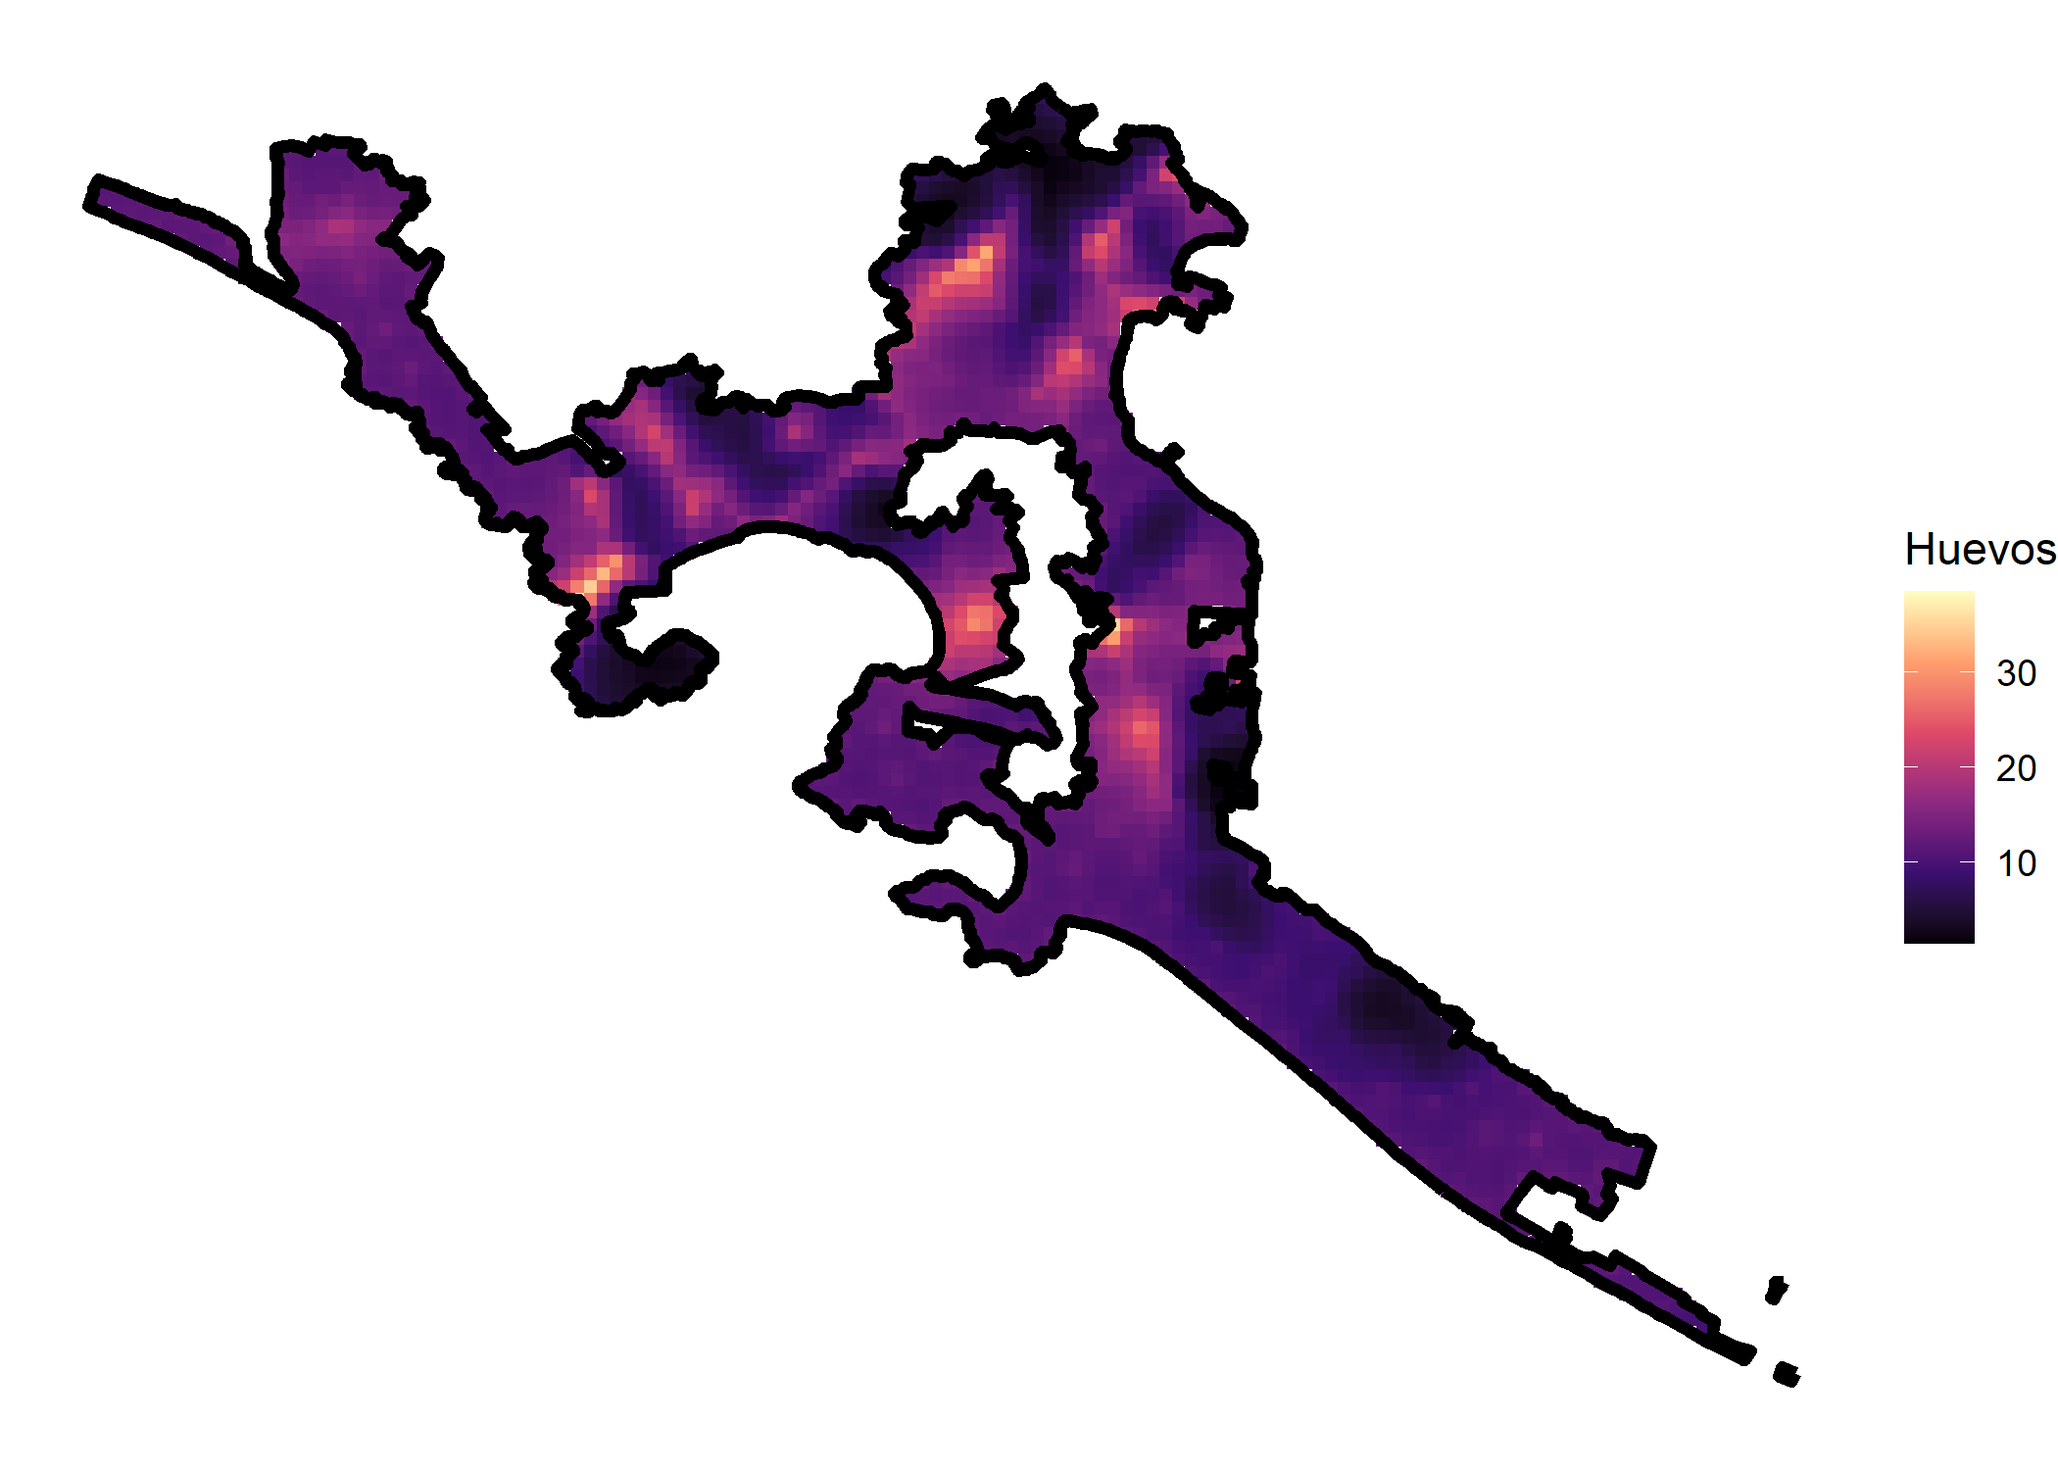
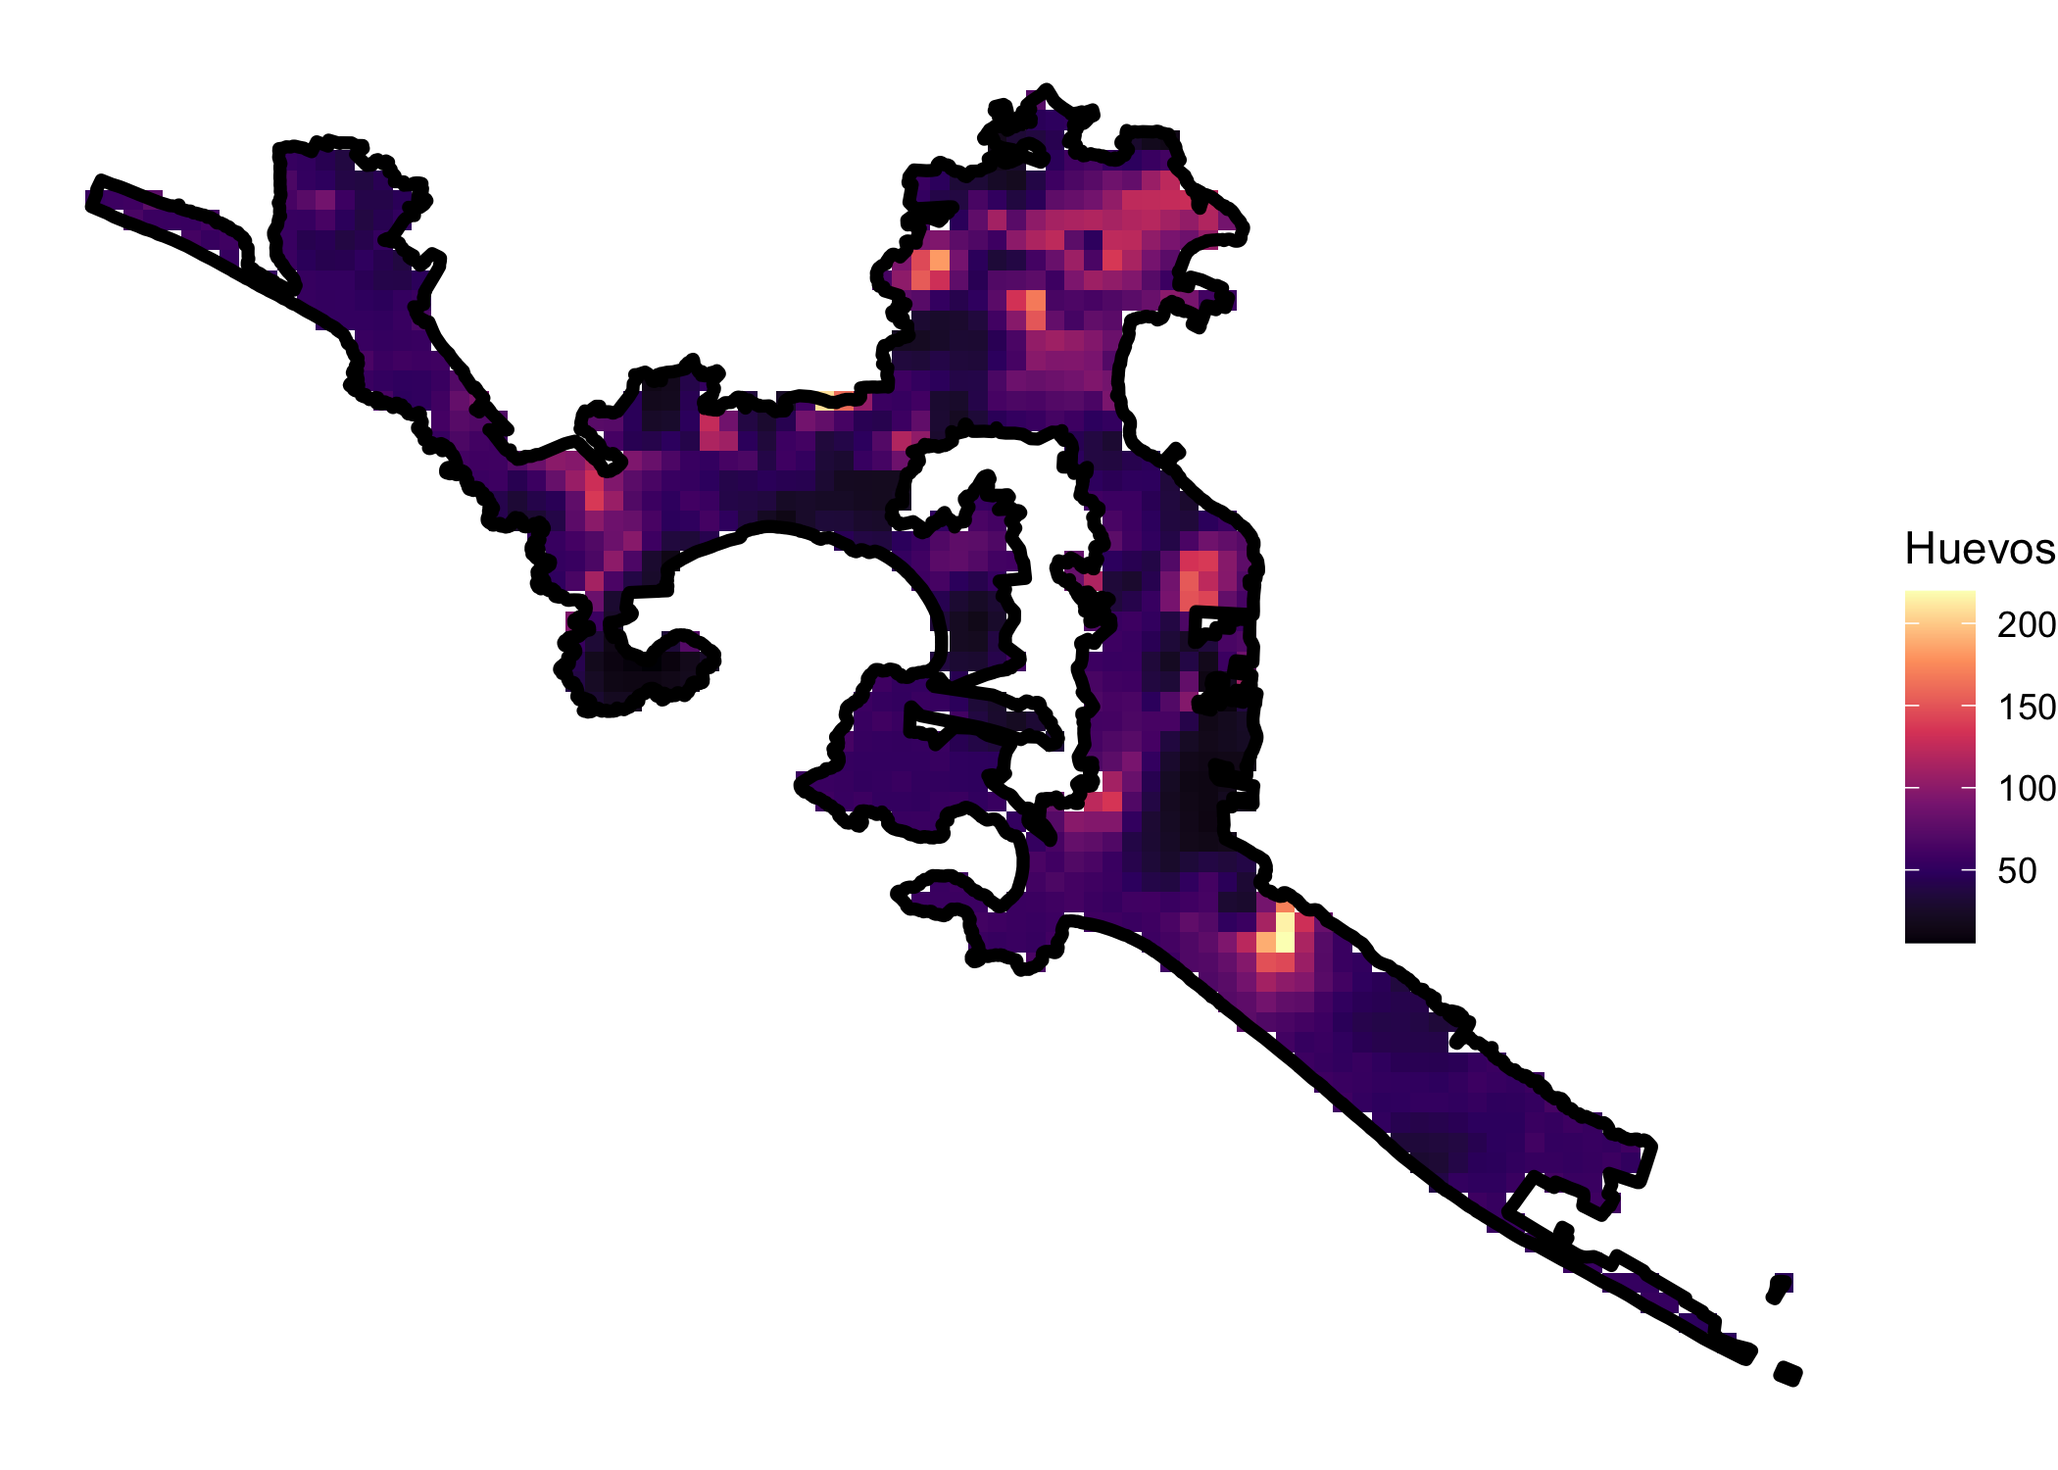
This commit update the deneggs pkg

diff --git a/README.md b/README.md
@@ -1,0 +1,306 @@
+
+<!-- README.md is generated from README.Rmd. Please edit that file -->
+
+# **deneggs**
+
+[![Build
+Status](https://travis-ci.org/pages-themes/cayman.svg?branch=master)](https://travis-ci.org/pages-themes/cayman)
+[![Gem
+Version](https://badge.fury.io/rb/jekyll-theme-cayman.svg)](https://badge.fury.io/rb/jekyll-theme-cayman)[![Github
+All
+Releases](https://img.shields.io/github/downloads/fdzul/deneggs/total.svg)]()
+
+**deneggs is a package developed in the department of prevention and
+control of diseases transmitted by vector of the [Secretary of Health of
+Veracruz](https://www.ssaver.gob.mx/) and with colaboration of the
+[CENAPRECE](https://www.gob.mx/salud/cenaprece)**
+
+## **overview**
+
+**deneggs** is a package to generate predictive maps of the number of
+eggs or adults in areas where it is not collected.The predictive maps
+are generated using geostatistical analysis in the
+[INLA](http://www.r-inla.org/) framework.
+
+- **`deneggs::spde_pred_map()`** generate the predictive mapand
+  calculate the hotspots. Run the models with six distributions.
+- **`deneggs::eggs_hotspots()`** generate the predictive map and
+  calculate the hotspots. Run the model with one distribution.
+- **`deneggs::animap_vector_hotblocks()`** generate the animated map of
+  hotblocks of eggs abundance.
+- **`deneggs::ovitraps_read()`** reads current ovitramp databases and
+  historical.
+- **`deneggs::eggs_map()`** generates an entomological risk map or an
+  egg density map.
+- **`deneggs::loc_grid_points()`** It is a complementary function that
+  helps in the creation of grid of the locality in the prediction stack
+  in [INLA](http://www.r-inla.org/).
+- **`mesh()`** It is a complementary function that helps in the creation
+  of mesh.
+
+## Instalation
+
+``` r
+# The easiest way to get deneggs is to install:
+install.packages("deneggs")
+```
+
+### Development version
+
+To get a bug fix, or use a feature from the development version, you can
+install deneggs from GitHub.
+
+mac
+
+``` r
+# install.packages("devtools")
+devtools::install_github("fdzul/deneggs")
+```
+
+linux fedora
+
+``` r
+# install.packages("devtools")
+remotes::install_github("fdzul/deneggs")
+```
+
+### **`deneggs::spde_pred_map()`** return a list with six object:
+
+- **`data`** is the original dataset of the ovitrap.
+- **`pred`** is the predicction dataset of *the Ae. aegypti* eggs.
+- **`dics`** is a dataframe with the dics of six distribution (poisson,
+  zeroinflatedpoisson0, 1, zeroinflatedpoisson1, nbinomial, nbinomial2,
+  zeroinflatednbinomial0, zeroinflatednbinomial1).
+- **`hotspots`** a dataset with the eggs prediction and the hotspots
+  eggs.
+- **`loc`** is the loclaity limit.
+- **`map`** is the map prediction.
+
+``` r
+# Step 1. define the paths 
+library(sf)
+path_lect <- "/Users/fdzul/Library/CloudStorage/OneDrive-Personal/datasets/CENAPRECE/2023/12_guerrero/"
+path_coord <- paste(path_lect,"DescargaOvitrampasMesFco.txt", sep = "/")
+
+# Step 2. make the prediction
+acapulco <- deneggs::spde_pred_map(path_lect = path_lect,
+                                   cve_ent = "12",
+                                   locality  = c("Acapulco de Juárez"),
+                                   path_coord =  path_coord,
+                                   longitude  = "Pocision_X",
+                                   latitude =  "Pocision_Y",
+                                   aproximation = "gaussian",
+                                   integration = "eb",
+                                   k = 20,
+                                   palette_vir  = "magma",
+                                   leg_title = "Huevos",
+                                   week = 30,
+                                   plot = TRUE,
+                                   var = "Huevecillos",
+                                   cell_size = 1000,
+                                   alpha = .99)
+```
+
+<img src="man/figures/README-spde_acapulco-1.png" width="100%" style="display: block; margin: auto;" />
+
+``` r
+
+
+knitr::kable(head(acapulco$data), "simple")
+```
+
+| Clave.x           | Entidad.x   | Jurisdiccion  | Municipio.x        | Localidad.x        | Sector | Manzana |   Ovitrampa | Huevecillos | No.Lectura | Fecha.Lectura | Fecha.Recoleccion.Papeleta | Semana.Epidemiologica | Usuario  | Fecha.Captura | RFC.del.Operador | CAMEX | Clave.y           | Entidad.y   | Municipio.y            | Localidad.y             | Pocision_X | Pocision_Y | FechaGeo   |
+|:------------------|:------------|:--------------|:-------------------|:-------------------|-------:|--------:|------------:|------------:|:-----------|:--------------|:---------------------------|----------------------:|:---------|:--------------|:-----------------|:------|:------------------|:------------|:-----------------------|:------------------------|-----------:|-----------:|:-----------|
+| 12001000103040099 | 12 Guerrero | 1207 ACAPULCO | Acapulco de Juárez | Acapulco De Juárez |    304 |      99 | 12001023350 |          32 | 26         | 28/07/2023    | 28/07/2023                 |                    30 | c1207:26 | 31/07/2023    | MEGD970929KC8    | SI    | 12001000103040099 | 12 Guerrero | 001 Acapulco de Juárez | 0001 ACAPULCO DE JUÁREZ |  -99.83735 |   16.82435 | 08/04/2019 |
+| 12001000101460085 | 12 Guerrero | 1207 ACAPULCO | Acapulco de Juárez | Acapulco De Juárez |    146 |      85 | 12001023363 |         307 | 23         | 24/07/2023    | 24/07/2023                 |                    30 | c1207:28 | 25/07/2023    | AACO650905N6A    | SI    | 12001000101460085 | 12 Guerrero | 001 Acapulco de Juárez | 0001 ACAPULCO DE JUÁREZ |  -99.84645 |   16.90038 | 09/04/2019 |
+| 12001000101460085 | 12 Guerrero | 1207 ACAPULCO | Acapulco de Juárez | Acapulco De Juárez |    146 |      85 | 12001023364 |          68 | 23         | 24/07/2023    | 24/07/2023                 |                    30 | c1207:28 | 25/07/2023    | AACO650905N6A    | SI    | 12001000101460085 | 12 Guerrero | 001 Acapulco de Juárez | 0001 ACAPULCO DE JUÁREZ |  -99.84624 |   16.90018 | 09/04/2019 |
+| 12001000101460085 | 12 Guerrero | 1207 ACAPULCO | Acapulco de Juárez | Acapulco De Juárez |    146 |      85 | 12001023365 |           8 | 23         | 24/07/2023    | 24/07/2023                 |                    30 | c1207:28 | 25/07/2023    | AACO650905N6A    | SI    | 12001000101460085 | 12 Guerrero | 001 Acapulco de Juárez | 0001 ACAPULCO DE JUÁREZ |  -99.84569 |   16.90015 | 09/04/2019 |
+| 12001000101460085 | 12 Guerrero | 1207 ACAPULCO | Acapulco de Juárez | Acapulco De Juárez |    146 |      85 | 12001023366 |          67 | 23         | 24/07/2023    | 24/07/2023                 |                    30 | c1207:28 | 25/07/2023    | AACO650905N6A    | SI    | 12001000101460085 | 12 Guerrero | 001 Acapulco de Juárez | 0001 ACAPULCO DE JUÁREZ |  -99.84553 |   16.90026 | 09/04/2019 |
+| 12001000101460087 | 12 Guerrero | 1207 ACAPULCO | Acapulco de Juárez | Acapulco De Juárez |    146 |      87 | 12001023367 |           9 | 23         | 24/07/2023    | 24/07/2023                 |                    30 | c1207:28 | 25/07/2023    | AACO650905N6A    | SI    | 12001000101460087 | 12 Guerrero | 001 Acapulco de Juárez | 0001 ACAPULCO DE JUÁREZ |  -99.84566 |   16.90116 | 09/04/2019 |
+
+``` r
+knitr::kable(head(acapulco$pred), "simple")
+```
+
+|         x |        y | pred_mean |   pred_sd |  pred_ll |  pred_ul | ws_mean | ws_sd | week | fam                    |     dic |
+|----------:|---------:|----------:|----------:|---------:|---------:|--------:|------:|-----:|:-----------------------|--------:|
+| -99.69653 | 16.71294 |  46.93143 |  8.926602 | 31.85718 | 31.85718 |      NA |    NA |   30 | zeroinflatednbinomial1 | 52503.9 |
+| -99.70695 | 16.71641 |  47.58182 | 12.139977 | 28.17665 | 28.17665 |      NA |    NA |   30 | zeroinflatednbinomial1 | 52503.9 |
+| -99.71389 | 16.71989 |  47.50852 | 11.812690 | 28.52137 | 28.52137 |      NA |    NA |   30 | zeroinflatednbinomial1 | 52503.9 |
+| -99.72084 | 16.72336 |  61.39220 | 53.967423 | 10.45366 | 10.45366 |      NA |    NA |   30 | zeroinflatednbinomial1 | 52503.9 |
+| -99.71737 | 16.72336 |  51.73372 | 26.331637 | 17.98862 | 17.98862 |      NA |    NA |   30 | zeroinflatednbinomial1 | 52503.9 |
+| -99.71389 | 16.72336 |  48.46528 | 15.705557 | 24.81079 | 24.81079 |      NA |    NA |   30 | zeroinflatednbinomial1 | 52503.9 |
+
+``` r
+knitr::kable(head(acapulco$dics), "simple")
+```
+
+|       dic | fam                    |
+|----------:|:-----------------------|
+| 101955.80 | poisson                |
+|  89688.48 | zeroinflatedpoisson0   |
+|  89771.94 | zeroinflatedpoisson1   |
+|  52681.89 | nbinomial              |
+|  52799.23 | nbinomial2             |
+|  52546.21 | zeroinflatednbinomial0 |
+
+``` r
+knitr::kable(head(acapulco$hotspots), "simple")
+```
+
+|         x |        y | pred_mean |   pred_sd |  pred_ll |  pred_ul | ws_mean | ws_sd | week | fam                    |     dic | z_score    | hotspots    |
+|----------:|---------:|----------:|----------:|---------:|---------:|--------:|------:|-----:|:-----------------------|--------:|:-----------|:------------|
+| -99.69653 | 16.71294 |  46.93143 |  8.926602 | 31.85718 | 31.85718 |      NA |    NA |   30 | zeroinflatednbinomial1 | 52503.9 | -0.5942301 | No Hotspots |
+| -99.70695 | 16.71641 |  47.58182 | 12.139977 | 28.17665 | 28.17665 |      NA |    NA |   30 | zeroinflatednbinomial1 | 52503.9 | -0.8254357 | No Hotspots |
+| -99.71389 | 16.71989 |  47.50852 | 11.812690 | 28.52137 | 28.52137 |      NA |    NA |   30 | zeroinflatednbinomial1 | 52503.9 | -0.4882049 | No Hotspots |
+| -99.72084 | 16.72336 |  61.39220 | 53.967423 | 10.45366 | 10.45366 |      NA |    NA |   30 | zeroinflatednbinomial1 | 52503.9 | -0.5543260 | No Hotspots |
+| -99.71737 | 16.72336 |  51.73372 | 26.331637 | 17.98862 | 17.98862 |      NA |    NA |   30 | zeroinflatednbinomial1 | 52503.9 | -0.5017920 | No Hotspots |
+| -99.71389 | 16.72336 |  48.46528 | 15.705557 | 24.81079 | 24.81079 |      NA |    NA |   30 | zeroinflatednbinomial1 | 52503.9 | -0.8069366 | No Hotspots |
+
+``` r
+
+# The locality limit of Acapulco
+plot(sf::st_geometry(acapulco$loc))
+```
+
+<img src="man/figures/README-spde_acapulco-2.png" width="100%" style="display: block; margin: auto;" />
+
+``` r
+
+# prediction of the number of Ae. aegypty eggs in the metropolitan area of Acapulco
+acapulco$map
+```
+
+<img src="man/figures/README-spde_acapulco-3.png" width="100%" style="display: block; margin: auto;" />
+
+## Prediction of the number of eggs in the metropolitan area of Monterrey
+
+``` r
+path_lect <- "/Users/fdzul/Library/CloudStorage/OneDrive-Personal/datasets/CENAPRECE/2023/19_nuevo_leon/"
+path_coord <- paste(path_lect,"DescargaOvitrampasMesFco.txt", sep = "/")
+deneggs::eggs_hotspots(path_lect = path_lect,
+                       cve_ent = "19",
+                       locality  = c("Ciudad General Escobedo", "Ciudad Apodaca",
+                                     "Guadalupe", "Monterrey", "Ciudad Santa Catarina",
+                                     "San Pedro Garza García", "Ciudad Benito Juárez",
+                                     "San Nicolás de los Garza", "Montebello"),
+                       path_coord =  path_coord,
+                       longitude  = "Pocision_X",
+                       latitude =  "Pocision_Y",
+                       aproximation = "gaussian",
+                       integration = "eb",
+                       fam = "zeroinflatednbinomial1",
+                       k = 30,
+                       palette_vir  = "magma",
+                       leg_title = "Huevos",
+                       plot = FALSE,
+                       hist_dataset = FALSE, #####
+                       sem = 40,
+                       var = "eggs",
+                       cell_size = 1000,
+                       alpha = .99)$map
+```
+
+<img src="man/figures/README-spde_monterrey-1.png" width="100%" style="display: block; margin: auto;" />
+
+## Prediction of the number of eggs in the metropolitan area of Merida
+
+``` r
+path_lect <- "/Users/fdzul/Library/CloudStorage/OneDrive-Personal/datasets/CENAPRECE/2023/31_yucatan/"
+path_coord <- paste(path_lect,"DescargaOvitrampasMesFco.txt", sep = "/")
+# prediction of the number of eggs in the metropolitan area of Merida
+deneggs::eggs_hotspots(path_lect = path_lect,
+                       cve_ent = "31",
+                       locality  = c("Mérida"),
+                       path_coord =  path_coord,
+                       longitude  = "Pocision_X",
+                       latitude =  "Pocision_Y",
+                       aproximation = "gaussian",
+                       integration = "eb",
+                       fam = "zeroinflatednbinomial1",
+                       k = 30,
+                       palette_vir  = "magma",
+                       leg_title = "Huevos",
+                       plot = FALSE,
+                       hist_dataset = FALSE, #####
+                       sem = 40,
+                       var = "eggs",
+                       cell_size = 1000,
+                       alpha = .99)$map
+```
+
+<img src="man/figures/README-spde_merida-1.png" width="100%" style="display: block; margin: auto;" />
+
+## Prediction of the number of eggs in the metropolitan area of Guadalajara
+
+``` r
+
+path_lect <- "/Users/fdzul/Library/CloudStorage/OneDrive-Personal/datasets/CENAPRECE/2023/14_jalisco/"
+path_coord <- paste(path_lect,"DescargaOvitrampasMesFco.txt", sep = "/")
+
+deneggs::eggs_hotspots(path_lect = path_lect,
+                       cve_ent = "14",
+                       locality  = c("Guadalajara", "Tlaquepaque", "Zapopan", "Tonalá"),
+                       path_coord =  path_coord,
+                       longitude  = "Pocision_X",
+                       latitude =  "Pocision_Y",
+                       aproximation = "gaussian",
+                       integration = "eb",
+                       fam = "zeroinflatednbinomial1",
+                       k = 40,
+                       palette_vir  = "magma",
+                       leg_title = "Huevos",
+                       plot = FALSE,
+                       hist_dataset = FALSE, #####
+                       sem = 40,
+                       var = "eggs",
+                       cell_size = 5000,
+                       alpha = .99)$map
+```
+
+<img src="man/figures/README-spde_guadalajara-1.png" width="100%" style="display: block; margin: auto;" />
+
+## Authors
+
+- **Felipe Antonio Dzul Manzanilla** -**<https://github.com/fdzul>** -
+  Packages developed in github:
+
+  1)  [denhotspots](https://github.com/fdzul/denhotspots).
+  2)  [boldenr](https://github.com/fdzul/boldenr).
+  3)  [dendata](https://github.com/fdzul/dendata).
+  4)  [rgeomex](https://github.com/fdzul/rgeomex).
+
+- **Fabian Correa Morales**
+
+- **Luis Hernández Herrera**
+
+- **Arturo Baez-Hernández**
+
+See also the list of
+[contributors](https://github.com/fdzul/deneggs/contributors) who
+participated in this project.
+
+## License
+
+This project is licensed under the MIT License - see the
+[LICENSE.md](LICENSE.md) file for details
+
+## Inspiration
+
+The package was inspired by the need to contribute to making decisions
+in the dengue prevention and control program, specifically to identify
+dengue vector hotspots and use the entomological information generated
+by the program.
+
+## Getting help
+
+If you encounter a clear bug, please file a minimal reproducible example
+on [github](https://github.com/fdzul/deneggs/issues). For questions and
+other discussion, please feel free to contact me
+(<felipe.dzul.m@gmail.com>)
+
+------------------------------------------------------------------------
+
+Please note that this project is released with a [Contributor Code of
+Conduct](https://dplyr.tidyverse.org/CODE_OF_CONDUCT). By participating
+in this project you agree to abide by its terms.
